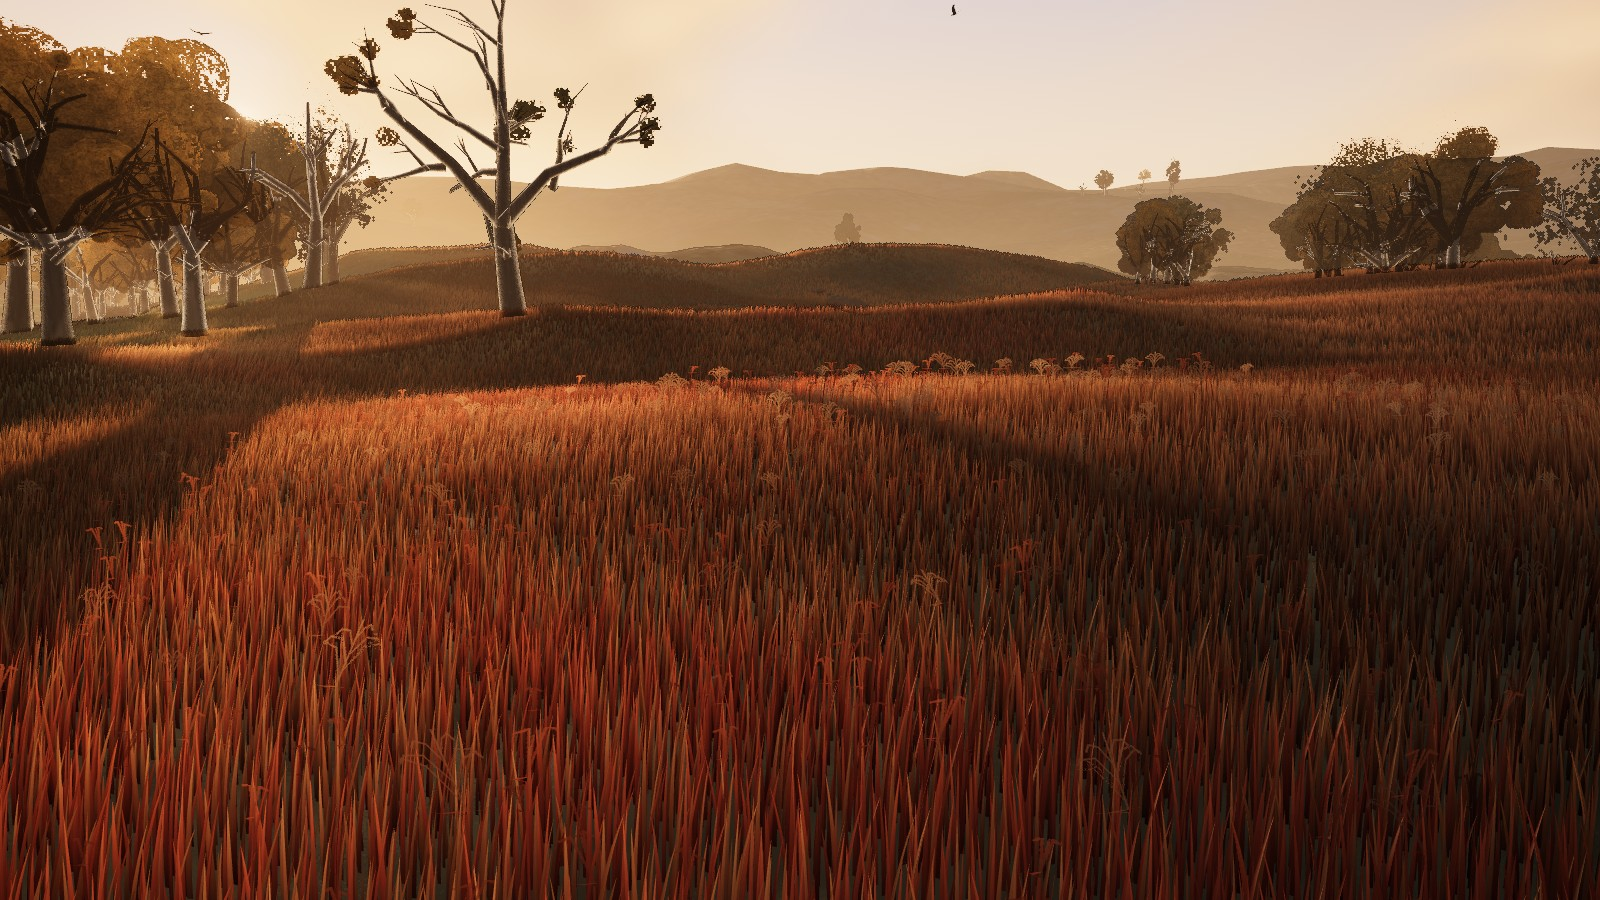
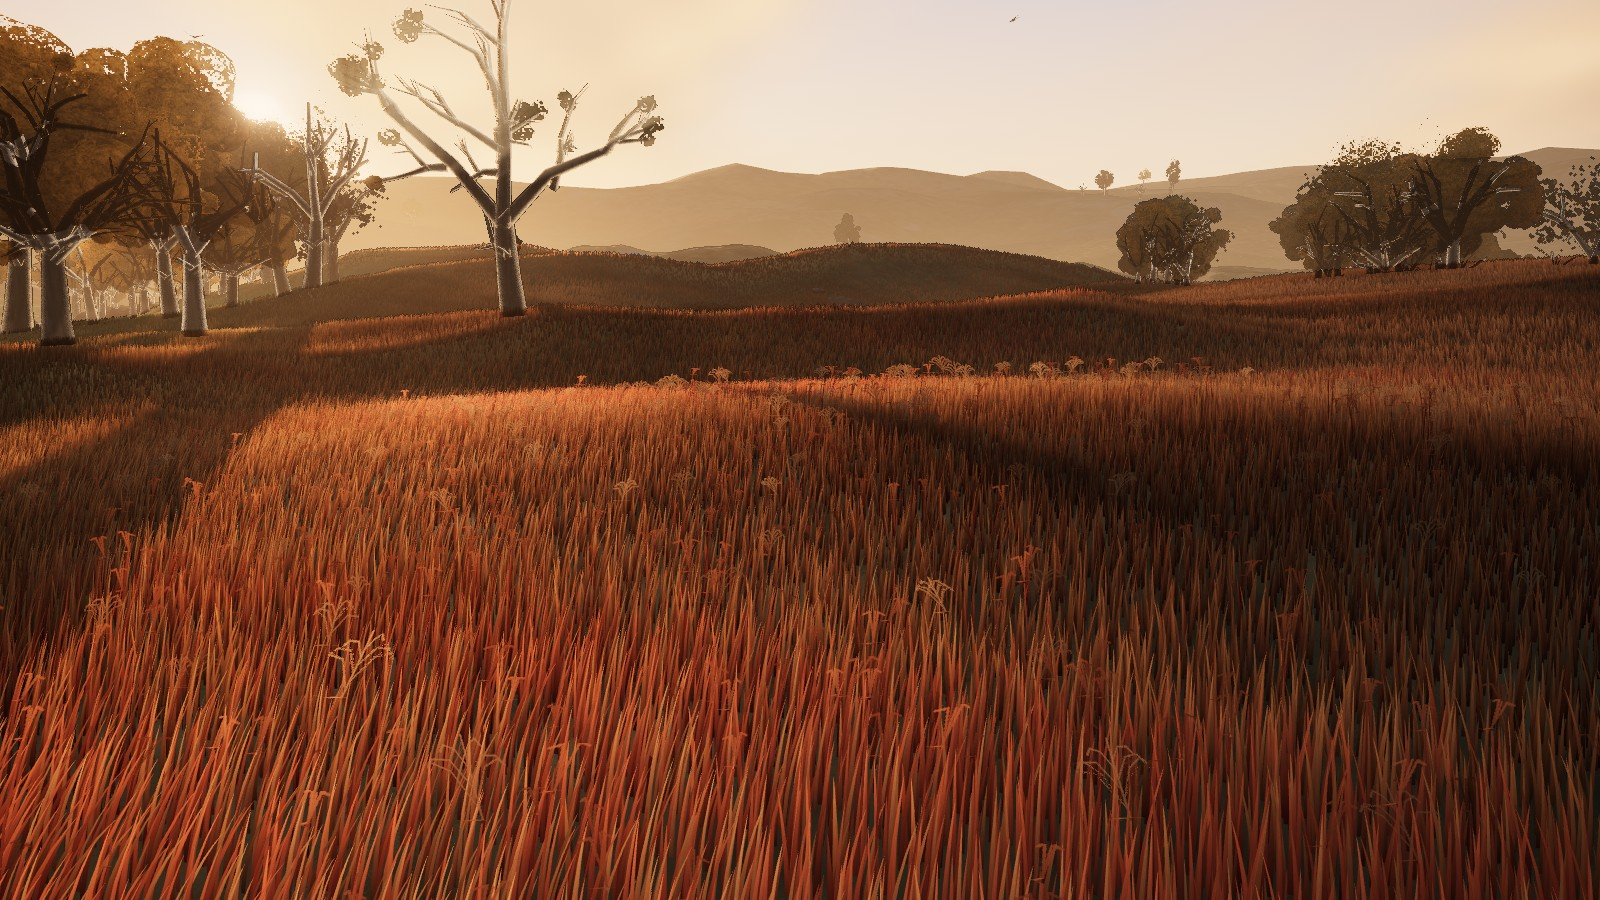
R2.9 grass: copper bluestem fades out across early winter
COPPER_KEYS now weathers to nothing by season 3.5 (was held to 3.3), and the copper is also scaled down by the winter ramp and the snow uniform in the blade shader, so frosted early-winter dusk shows no red streaks. Autumn look unchanged.

diff --git a/src/render/season.ts b/src/render/season.ts
@@ -17,11 +17,11 @@ export const SEED_KEYS: Keys = [
 ];
 /**
  * How copper-red the bluestem stems and blades are across the year: [season, amount]. Big and little bluestem stay green through the
- * summer, flush to bronze as the grass cures (the CURE_KEYS ramp, season 1.5 to 2.0), and hold a copper-red through autumn and into
- * early winter before the colour bleaches to straw by late winter. The blade layer multiplies it by each blade's dryness.
+ * summer, flush to bronze as the grass cures (the CURE_KEYS ramp, season 1.5 to 2.0), and hold a copper-red through autumn, then weather to a dull tan-bronze
+ * through early winter (the red is gone by about season 3.5) and stay tan-grey under frost and snow. The blade layer multiplies it by each blade's dryness.
  */
 export const COPPER_KEYS: Keys = [
-  [0, 0.0], [1.5, 0.0], [1.9, 0.35], [2.3, 0.85], [2.7, 1.0], [3.3, 1.0], [3.7, 0.5], [3.95, 0.0], [4.0, 0.0],
+  [0, 0.0], [1.5, 0.0], [1.9, 0.35], [2.3, 0.85], [2.7, 1.0], [3.0, 0.5], [3.3, 0.12], [3.6, 0.0], [4.0, 0.0],
 ];
 /**
  * Cottonwood leaf cover across the year: [season, leaf amount]. Bare through winter and into early spring, buds and small leaves

diff --git a/src/render/grass.ts b/src/render/grass.ts
@@ -272,6 +272,7 @@ uniform float uSeedFrac;
 uniform float uMoistK;
 uniform float uWindGain;
 uniform float uCopper;
+uniform float uSnow;
 
 varying vec2 vUv;
 varying vec3 vN;
@@ -611,7 +612,7 @@ void main() {
     // copper-red bluestem: a share of the blades (stands of it, all the culms that carry a turkey foot) flush copper through autumn.
     // The flush fades out with distance (the ground and the far rings keep the plain cured palette).
     float bs = max(step(fract(rE * 17.0 + rC * 5.0), 0.05 + 0.75 * smoothstep(0.5, 0.74, tusC)), step(seedFlag, 1.5) * step(0.5, seedFlag));
-    vSd.x = uCopper * bs * (1.0 - smoothstep(14.0, 50.0, dist));
+    vSd.x = uCopper * bs * (1.0 - smoothstep(14.0, 50.0, dist)) * (1.0 - 0.9 * uWinterK) * (1.0 - clamp(uSnow * 2.0, 0.0, 1.0));
 #if LEVEL == 0
     vSd.y = 0.5 * (0.0075 + seedHW) * min(wScale, 3.0);
     vSd.z = seedHead * H;
